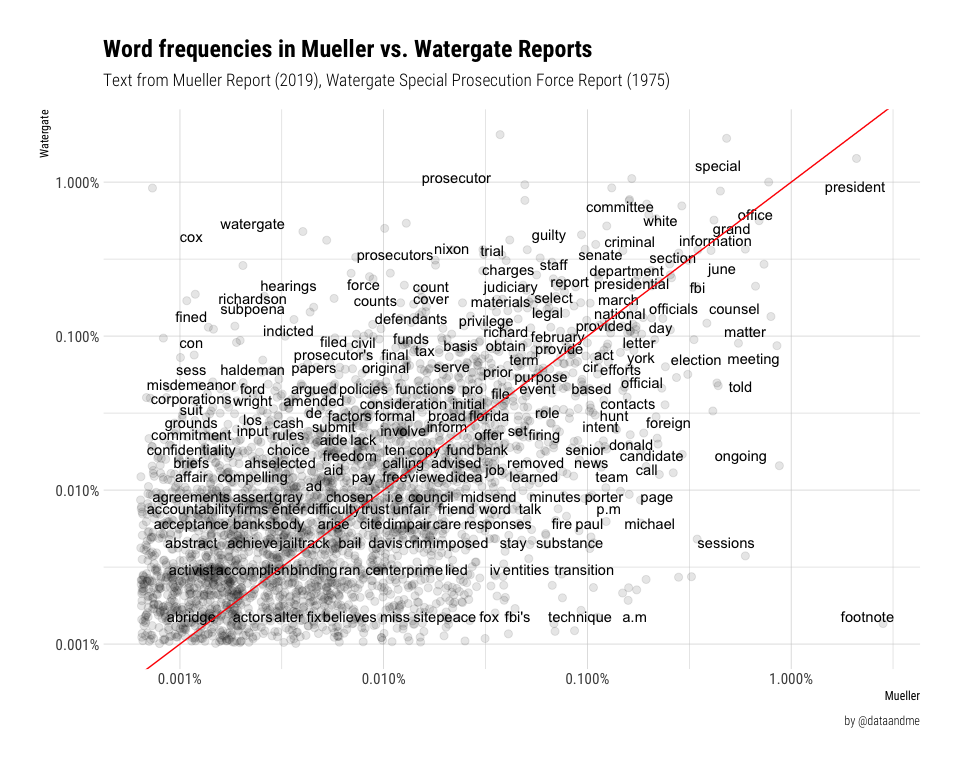
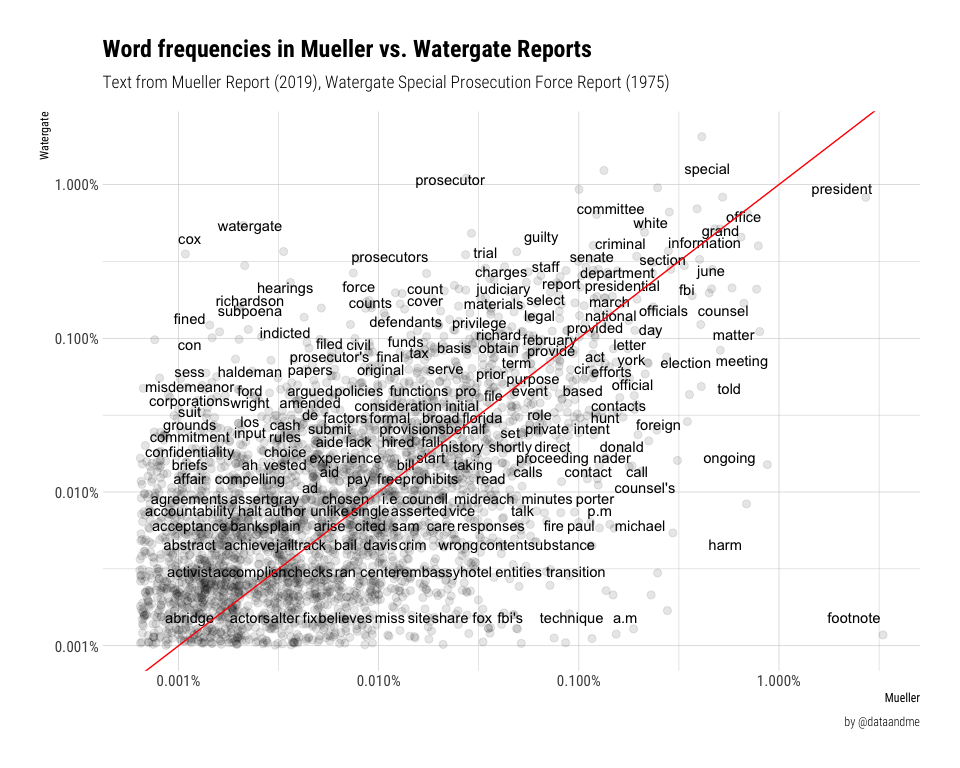
Factbase-based freq. comparison sans sessions

diff --git a/Rmd/tidymueller_factbase.md b/Rmd/tidymueller_factbase.md
@@ -10,14 +10,14 @@ Report](https://www.garrickadenbuie.com/blog/redacted-text-extracted-mueller-rep
 library(tidyverse)
 ```
 
-    ## ── Attaching packages ────────────────────────────────────────────────────── tidyverse 1.2.1.9000 ──
+    ## ── Attaching packages ──────────────────────────────────────────────── tidyverse 1.2.1 ──
 
-    ## ✔ ggplot2 3.1.1          ✔ purrr   0.3.2     
+    ## ✔ ggplot2 3.1.1.9000     ✔ purrr   0.3.2     
     ## ✔ tibble  2.1.1          ✔ dplyr   0.8.0.9014
-    ## ✔ tidyr   0.8.3.9000     ✔ stringr 1.4.0     
-    ## ✔ readr   1.3.1          ✔ forcats 0.4.0.9000
+    ## ✔ tidyr   0.8.3          ✔ stringr 1.4.0     
+    ## ✔ readr   1.3.1.9000     ✔ forcats 0.4.0
 
-    ## ── Conflicts ────────────────────────────────────────────────────────────── tidyverse_conflicts() ──
+    ## ── Conflicts ─────────────────────────────────────────────────── tidyverse_conflicts() ──
     ## ✖ dplyr::filter() masks stats::filter()
     ## ✖ dplyr::lag()    masks stats::lag()
 
@@ -132,7 +132,8 @@ raw_frequency <- tidy_reports %>%
 frequency <- raw_frequency %>%
   select(report, word, freq) %>%
   spread(report, freq) %>%
-  arrange(Mueller, Watergate)
+  arrange(Mueller, Watergate) %>%
+  filter(word != "sessions")
 
 
 # plot relative frequencies -----------------------------------------------
